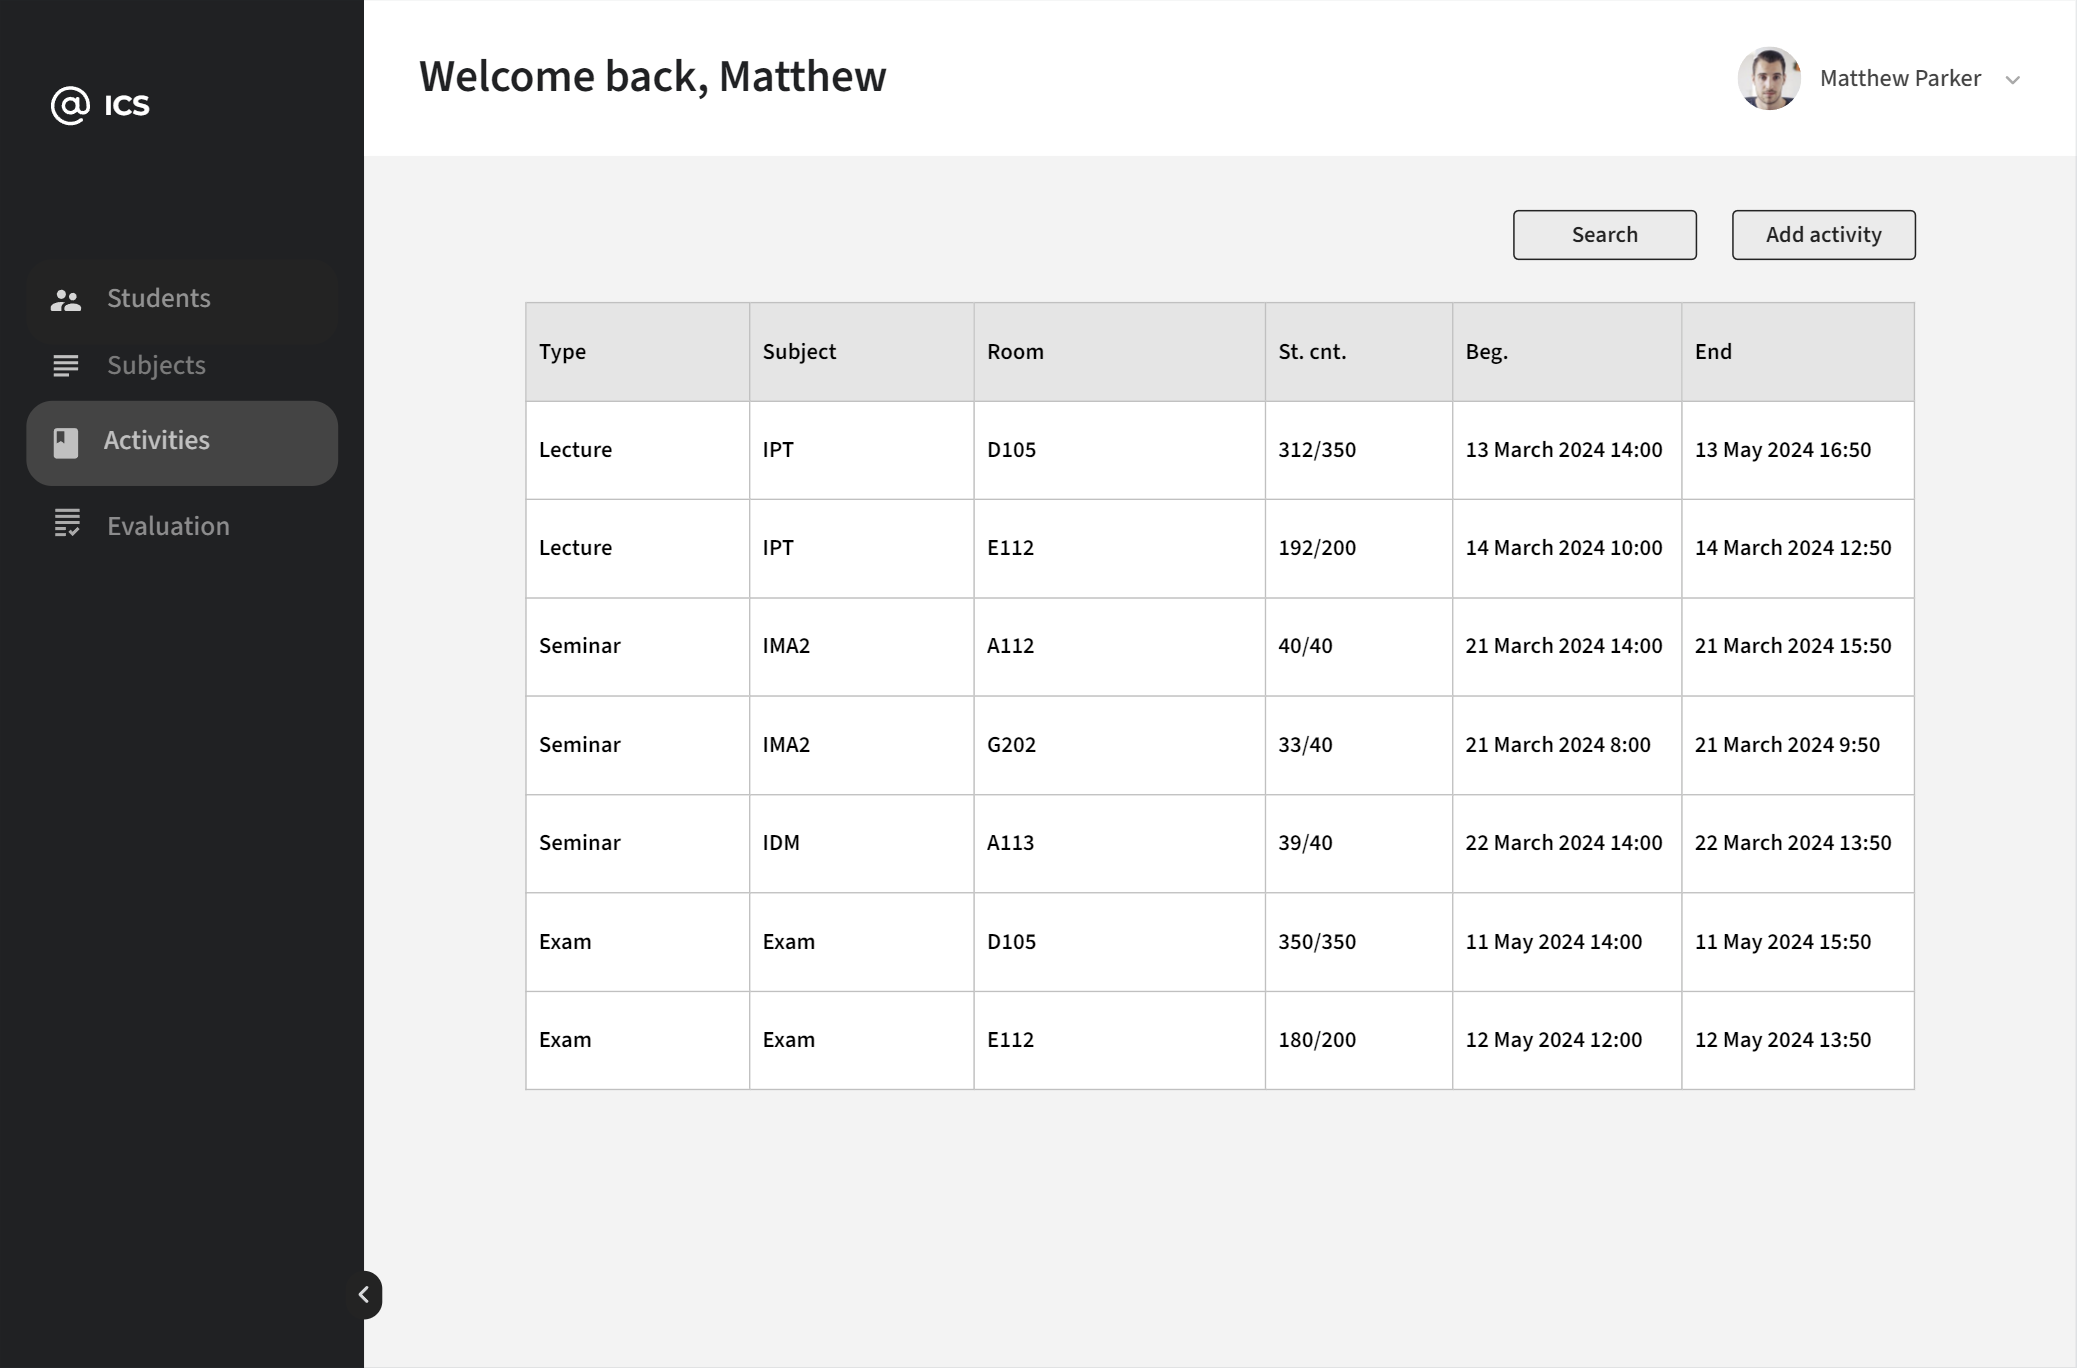
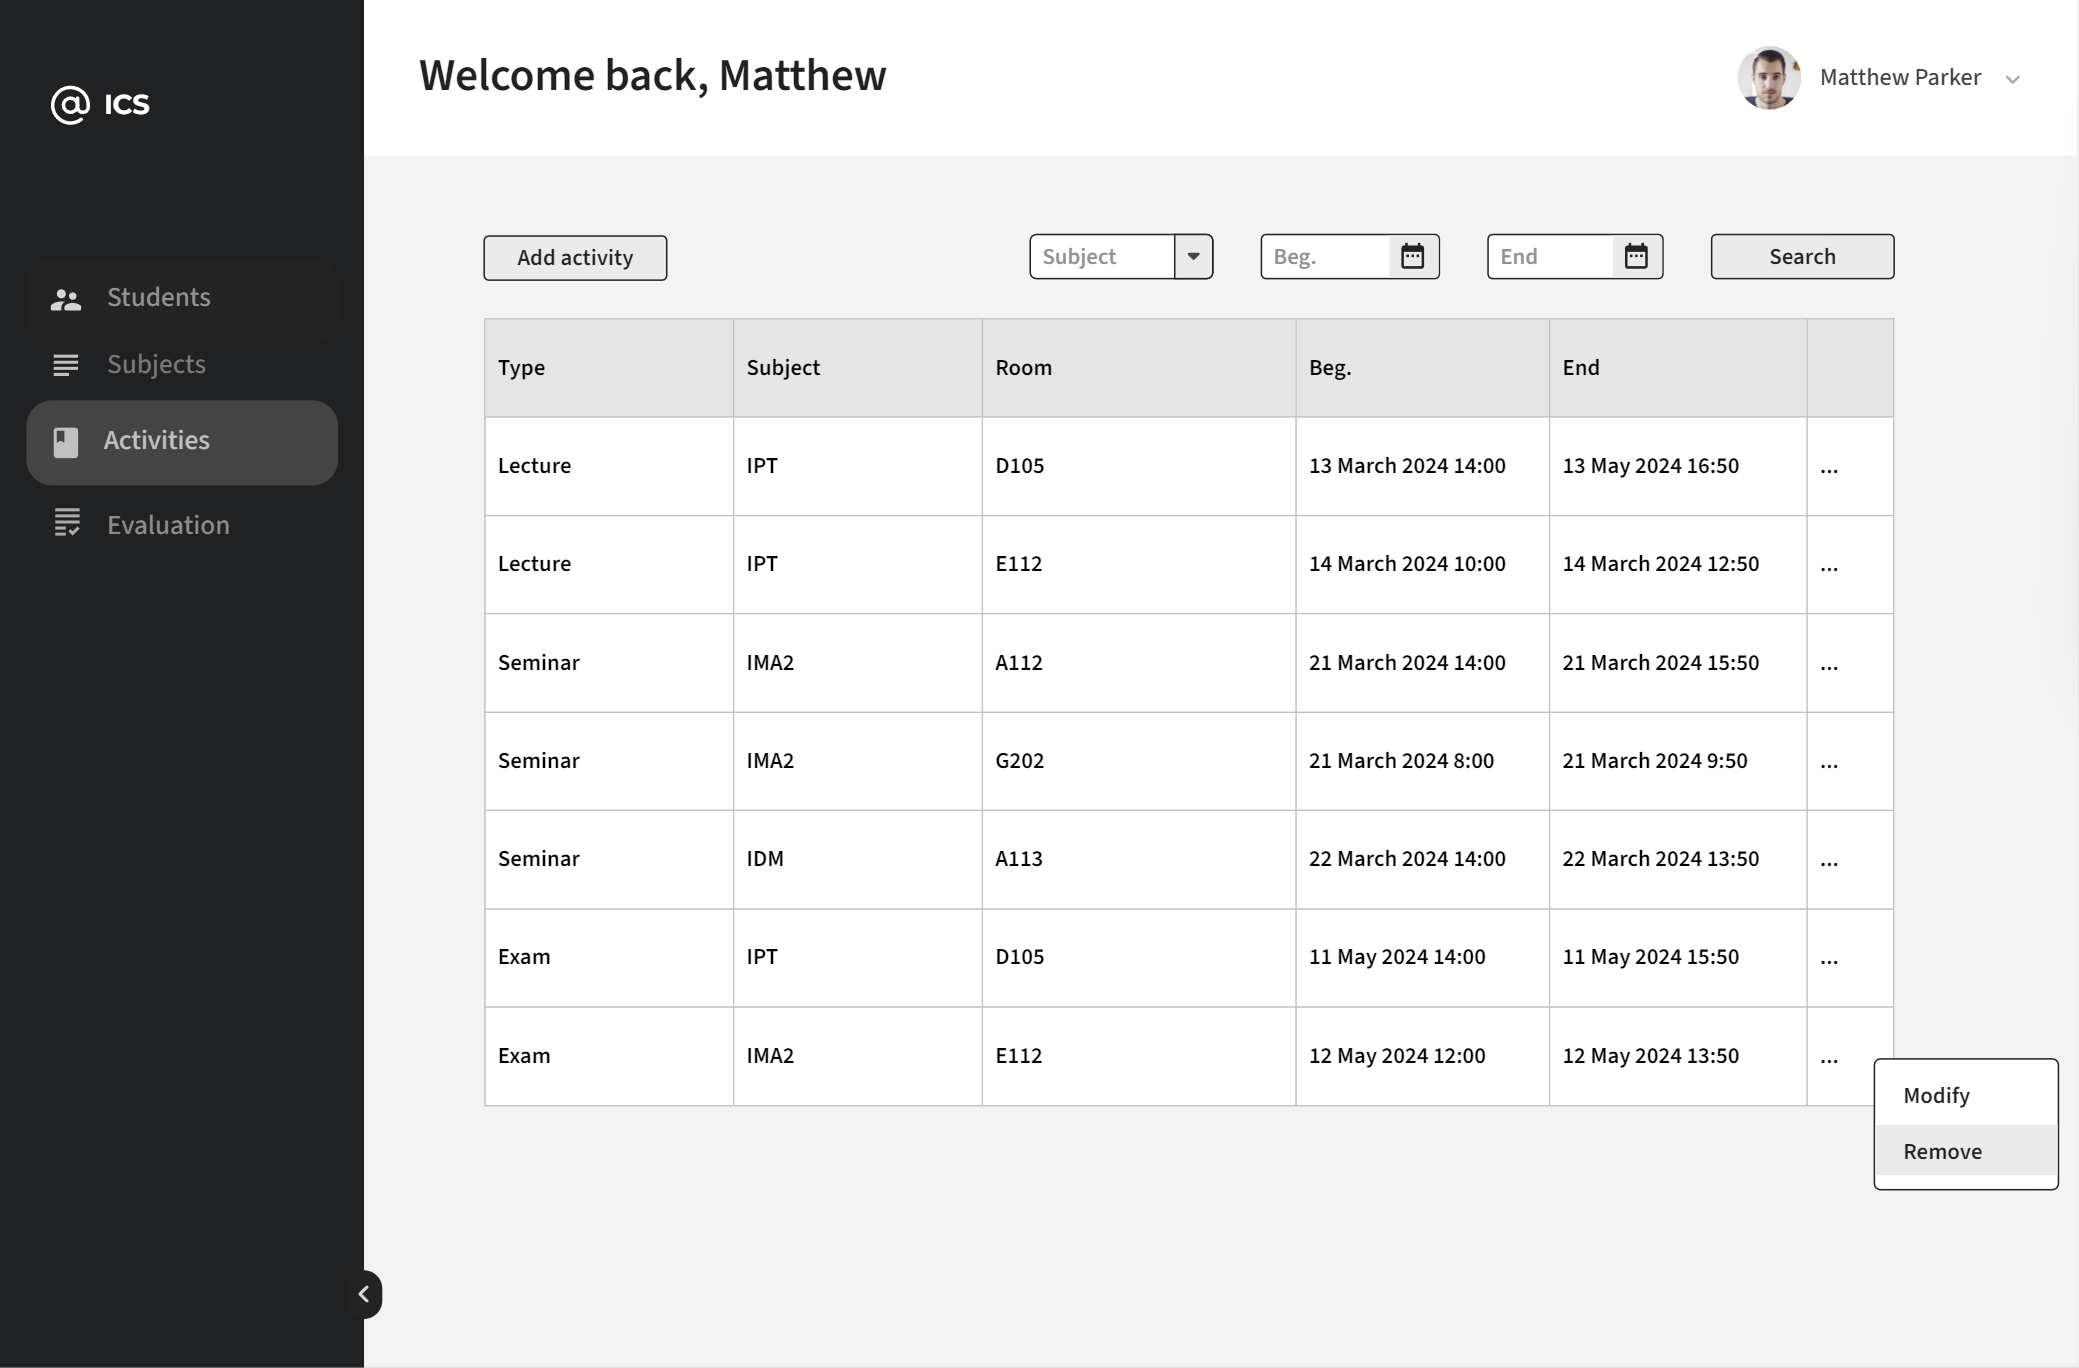
docs: Activity wireframes reworked: added modify wireframe, remove and search

diff --git a/ICS/Entities/ActivityEntity.cs b/ICS/Entities/ActivityEntity.cs
@@ -4,16 +4,13 @@ public record ActivityEntity
 {
     public required Guid EntityId { get; set; }
     public required ActivityType Type { get; set; }
+    public required Room Room { get; init; }
     public required DateTime StartTime { get; set; }
     public required DateTime EndTime { get; set; }
     public required string Description { get; set; } = string.Empty;
 
-    public required Subject Subject { get; init; }
     public required string SubjectAbbr { get; set; } = string.Empty;
-
-    public ICollection<Student> Students { get; set; } = new List<Student>();
-
-    public required Room Room { get; init; }
+    public required Subject Subject { get; init; }
 
     public ICollection<EvaluationEntity> Evaluations { get; set; } = new List<EvaluationEntity>();
 }

diff --git a/ICS/Entities/ActivityType.cs b/ICS/Entities/ActivityType.cs
@@ -4,6 +4,10 @@
 
 namespace ICS.DAL.Entities;
 
-public class ActivityType
+public enum ActivityType
 {
+    None = 0,
+    Lecture,
+    Seminar,
+    Exam
 }
